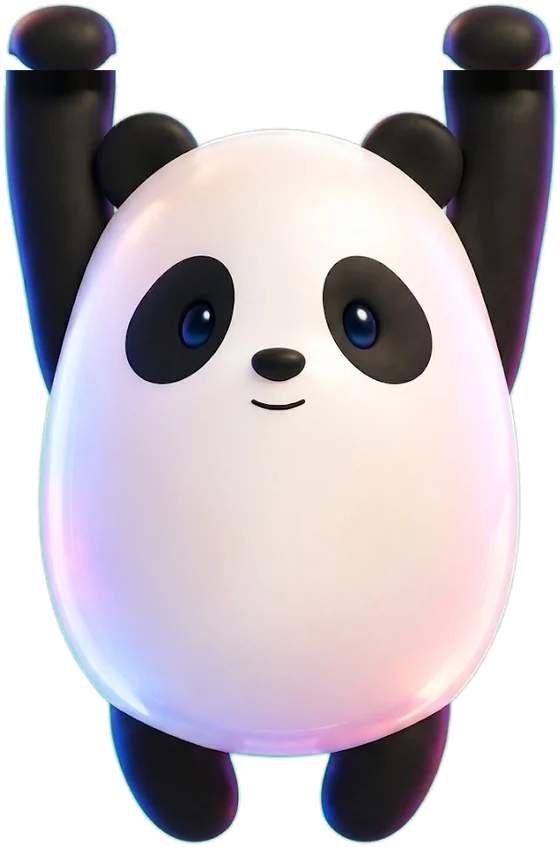
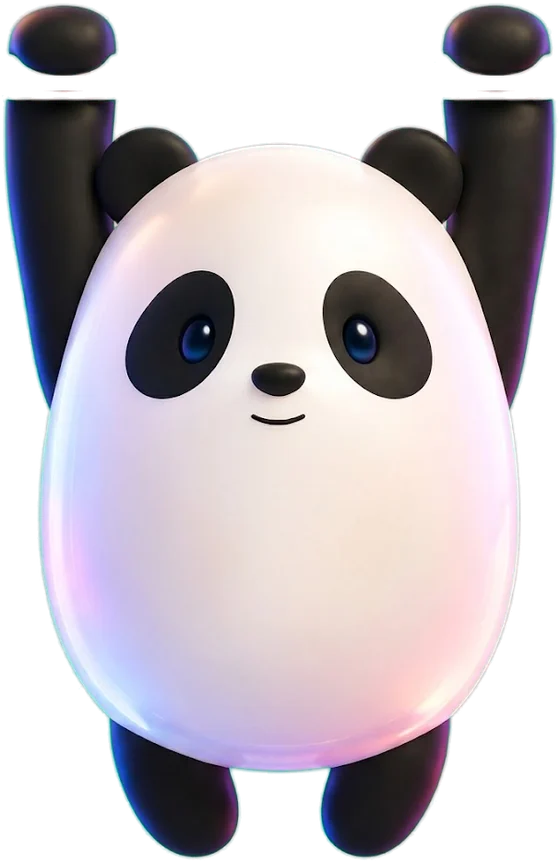
Panda colgado: la barra pasa por el hueco entre patas y brazos
Reabre el hueco de la imagen (patas subidas 16 px) y alinea la barra bajo
"vos" con ese hueco, para que parezca que se agarra de verdad. La barra
baja un poco para no rozar las letras.

diff --git a/src/styles.css b/src/styles.css
@@ -465,13 +465,14 @@ p { text-wrap: pretty; }
 
 /* ─── Poses del panda ─────────────────────────────────── */
 /* Colgado de la "v" de "vos" */
-.sec .hang-title { --hang-w: 96px; margin-bottom: calc(var(--hang-w) * 1.512 + 6px); }
+.sec .hang-title { --hang-w: 96px; margin-bottom: calc(var(--hang-w) * 1.363 + 0.2em + 8px); }
 .hang { position: relative; display: inline-block; }
+/* La barra pasa justo por el hueco entre las patas y los brazos del panda (medido sobre colgado.webp). */
 .hang::after {
   content: "";
   position: absolute;
-  left: -2%; right: -2%; bottom: 0.02em;
-  height: 0.09em;
+  left: -2%; right: -2%; bottom: -0.2em;
+  height: calc(var(--hang-w) * 0.05);
   border-radius: 999px;
   background: var(--turq);
 }
@@ -479,7 +480,7 @@ p { text-wrap: pretty; }
   position: absolute;
   z-index: 1;
   left: 50%;
-  top: calc(100% - 0.1em);
+  top: calc(100% + 0.2em - var(--hang-w) * 0.176);
   width: var(--hang-w);
   margin-left: calc(var(--hang-w) / -2);
   pointer-events: none;

diff --git a/src/App.jsx b/src/App.jsx
@@ -213,7 +213,7 @@ function HangingPanda() {
         src={pose("colgado")}
         alt=""
         width="560"
-        height="847"
+        height="862"
         loading="lazy"
         decoding="async"
         style={{ transformOrigin: "50% 3%" }}
